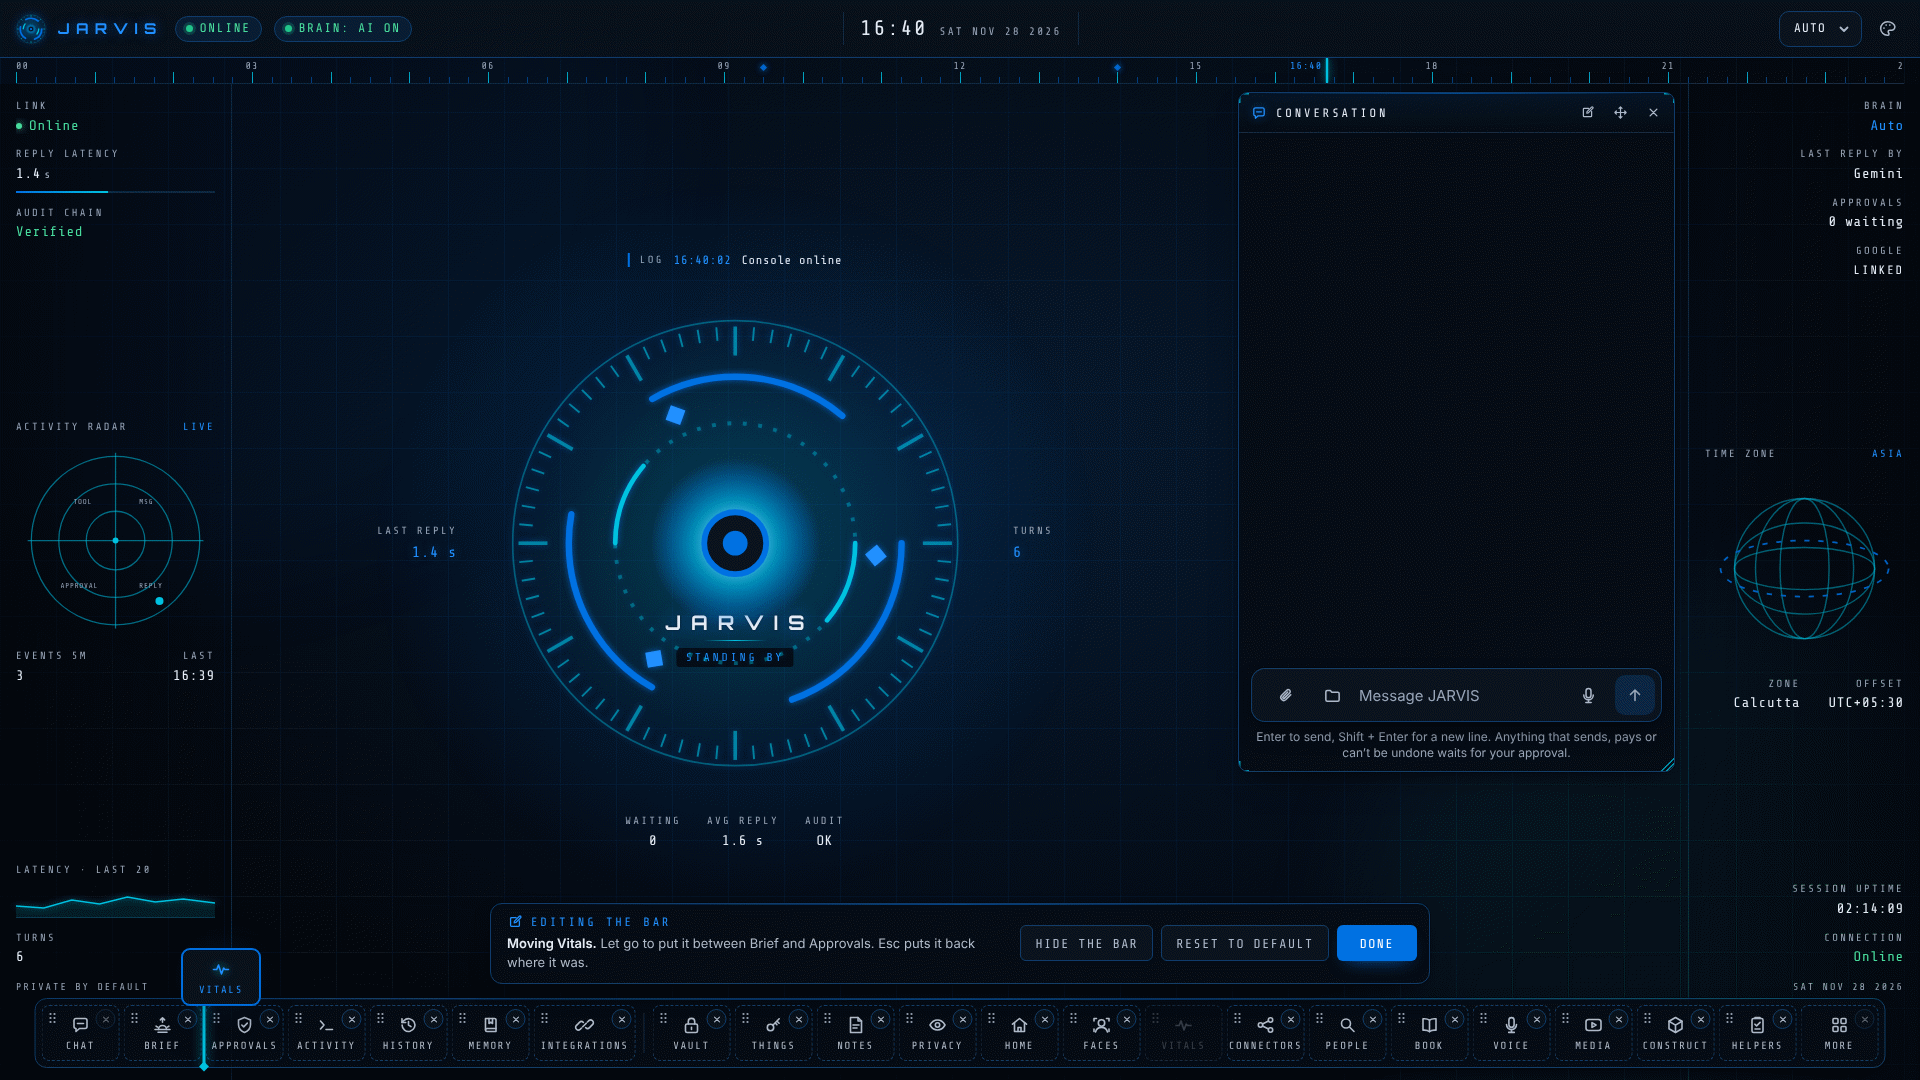
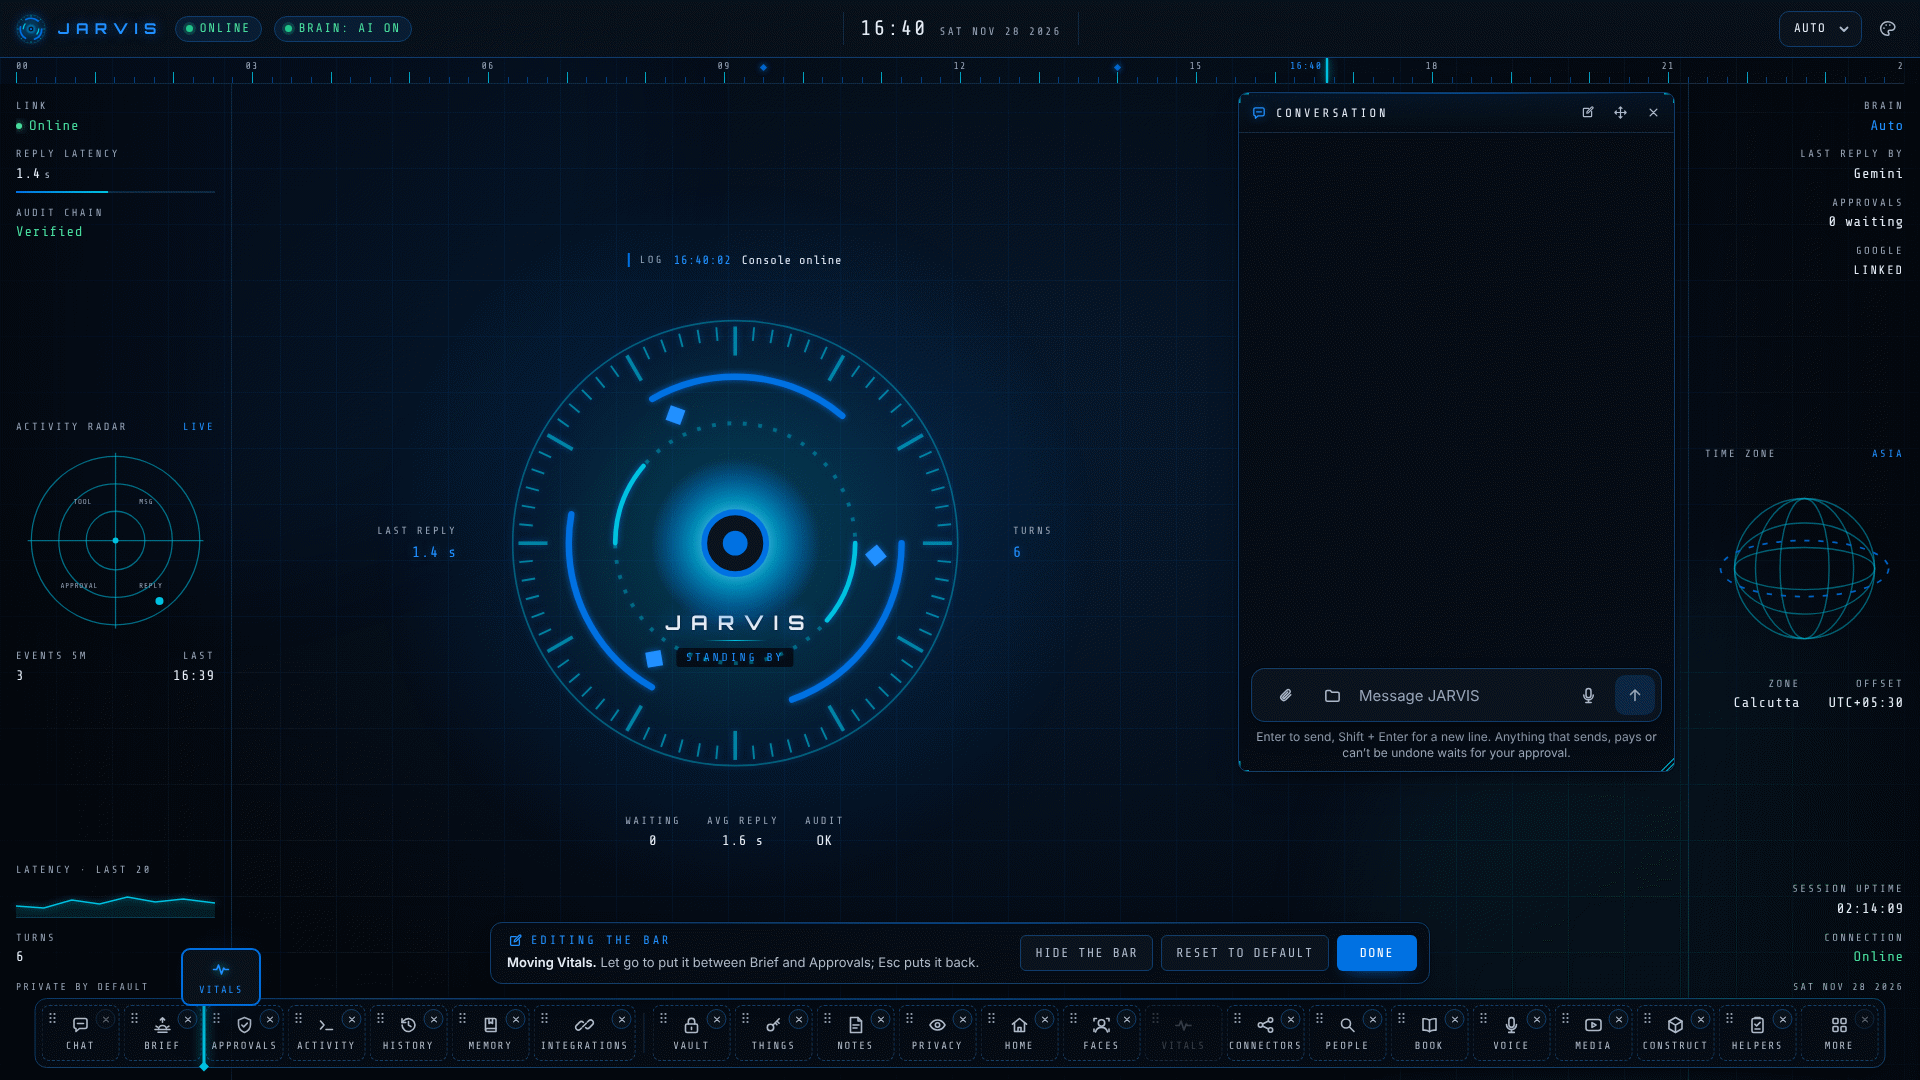
docs(r8): bar mockup: shorter drag line, keyboard keys kept together (v8.0.2)
Two wraps found on looking at every shot: the dragging status line left "was."
alone on a second line (Day), and the phone's keyboard hint split "Shift +" from
its arrows. Shots, squashed, and contact-sheet-bar.png rebuilt; README time.

Claude-Session: https://claude.ai/code/session_01KbmAkp1V3a2G8cyCvYF91k
JARVIS-Version: v8.0.0
JARVIS-Mark: XXVI

Changed region(s): [[0.25, 0.825, 0.75, 0.9167]]

diff --git a/docs/plans/r8-mockups/bar-edit.html b/docs/plans/r8-mockups/bar-edit.html
@@ -784,7 +784,7 @@ html[data-surface="night"] .r8b-row b{font:400 12.5px/1.25 var(--tech);letter-sp
     laptop({ panels: [], log: st === 'hidden' ? 'Bar hidden' : 'Console online' });
     const LIVE = {
       edit: 'Drag an item to move it. Its ✕, or dropping it on More, takes it off the bar. <b>Camera and Calls wait in More:</b> no room for them at this width.',
-      drag: '<b>Moving Vitals.</b> Let go to put it between Brief and Approvals. Esc puts it back where it was.',
+      drag: '<b>Moving Vitals.</b> Let go to put it between Brief and Approvals; Esc puts it back.',
       tomore: '<b>Construct over More.</b> Let go to take it off the bar; it waits in More, with Put back.',
       keyboard: `<b>Vitals, 3rd of 21.</b> ${kbd('Shift')} + ${kbd('←')} or ${kbd('→')} moves it, ${kbd('Delete')} puts it in More, ${kbd('Esc')} ends editing.`,
     };
@@ -841,7 +841,7 @@ html[data-surface="night"] .r8b-row b{font:400 12.5px/1.25 var(--tech);letter-sp
     const WORDS = {
       edit: `Hold ${HOLD} and drag to move an item. ✕ takes it off the bar. The top of the list is the left of the bar; More is always last.`,
       drag: '<b>Moving Vitals.</b> Let go to put it 3rd, between Brief and Approvals.',
-      keyboard: `<b>Vitals is 3rd.</b> Use the buttons, or on a keyboard ${kbd('Shift')} + ${kbd('↑')} or ${kbd('↓')} and ${kbd('Delete')}.`,
+      keyboard: `<b>Vitals is 3rd.</b> Use the buttons, or on a keyboard <span style="white-space:nowrap">${kbd('Shift')} + ${kbd('↑')} or ${kbd('↓')}</span> and ${kbd('Delete')}.`,
     };
     return () => {
       if (st === 'edit') editSheet(DEFAULT, { words: WORDS.edit });

diff --git a/docs/plans/r8-mockups/README.md b/docs/plans/r8-mockups/README.md
@@ -1,6 +1,6 @@
 # R8 / R8.1 mockups: the four new screens and the bar
 
-Version v8.0.2 · 28 Nov 2026, 04:55 IST · Release R8 · Status: Draft · Owner: 🛠 Mark XXVI
+Version v8.0.2 · 28 Nov 2026, 04:57 IST · Release R8 · Status: Draft · Owner: 🛠 Mark XXVI
 
 Mockups only, for the owner's approval stop. No product code. They show where each new screen lives, what it says and
 how it looks in every key state, in the console's own look (Workshop theme), Night and Day.
@@ -151,4 +151,4 @@ Screen 5, 26 shots (the bar, its toolbar, tips, the Move panel and the More shee
 | Version | Date | Change |
 |---|---|---|
 | v8.0.1 | 28 Nov 2026 | First draft: four screens, 50 states (Night and Day), contact sheet, the kit and the checks. |
-| v8.0.2 | 28 Nov 2026, 04:55 IST | Screen 5, "your bar, your way" (R8 part I): the bar as today, edit mode, dragging, dropping on More, More with Put back, the hidden bar, the keyboard way; laptop and phone, Night and Day (26 shots), `contact-sheet-bar.png`, `tools/r8-bar.css`, `tools/squash.py`. |
+| v8.0.2 | 28 Nov 2026, 04:57 IST | Screen 5, "your bar, your way" (R8 part I): the bar as today, edit mode, dragging, dropping on More, More with Put back, the hidden bar, the keyboard way; laptop and phone, Night and Day (26 shots), `contact-sheet-bar.png`, `tools/r8-bar.css`, `tools/squash.py`. |
